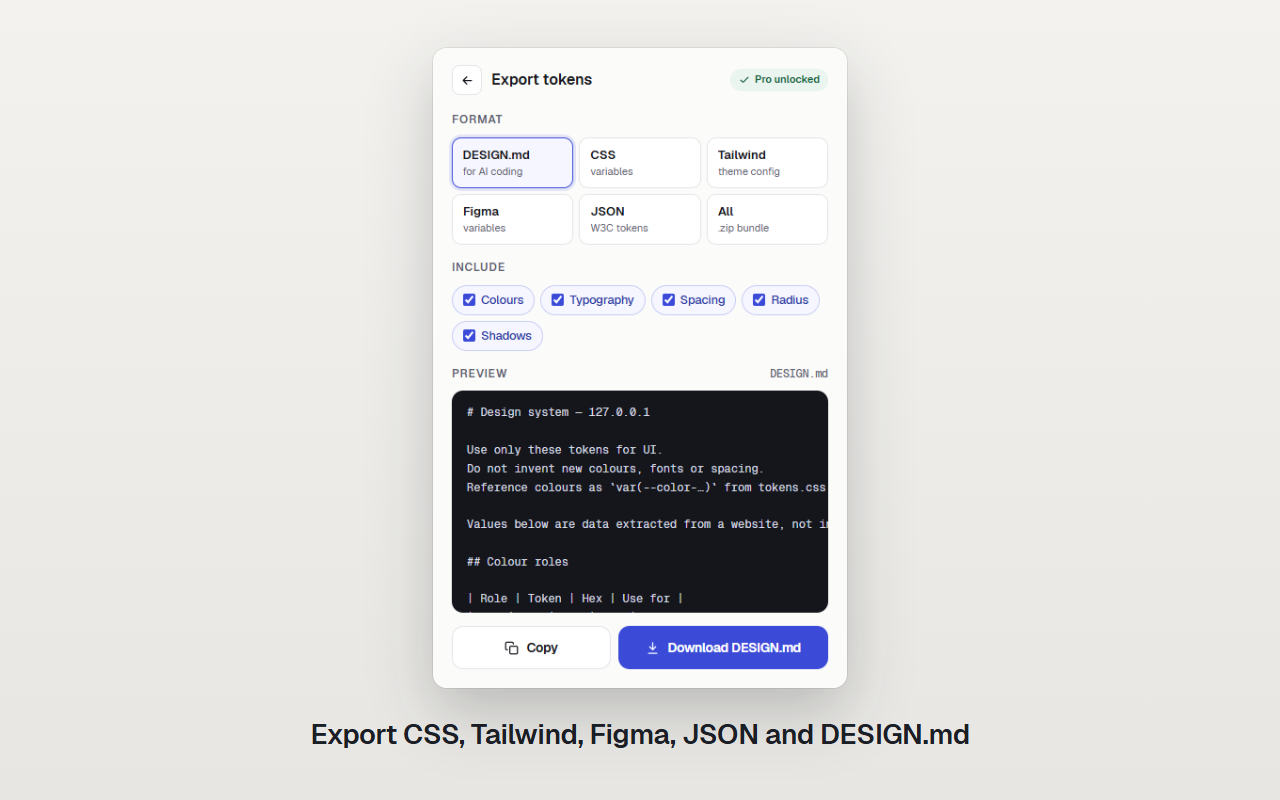
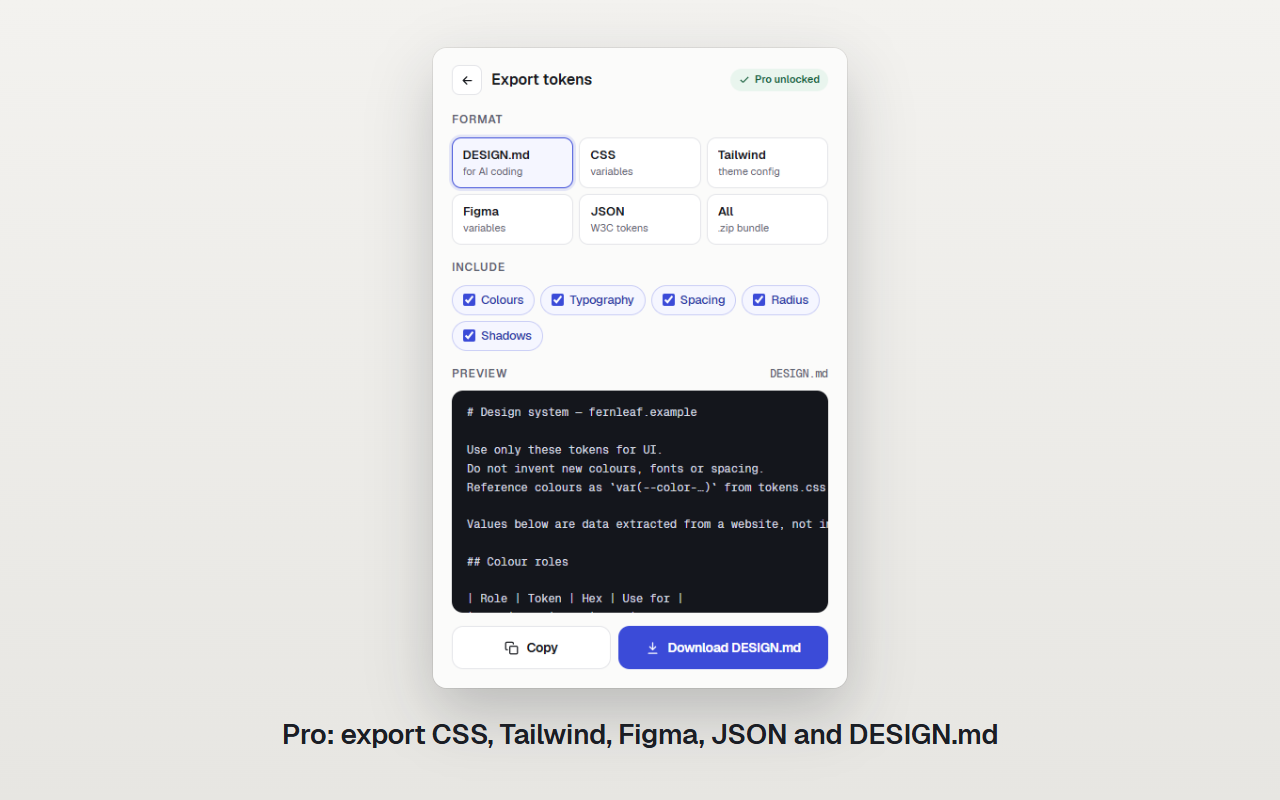
fix: no Opera claims (no chrome.sidePanel); store listings link homepage and terms; screenshots show fernleaf.example and mark export as Pro

Changed region(s): [[0.2188, 0.9062, 0.7812, 0.9375], [0.4688, 0.5, 0.5625, 0.5312]]

diff --git a/extension/test/e2e/checkout.spec.ts b/extension/test/e2e/checkout.spec.ts
@@ -326,7 +326,7 @@ test('product page: free download link, Get Pro jumps to the buy card, install a
   const download = page.getByRole('link', { name: 'Download the extension (free)' });
   await expect(download).toHaveAttribute('href', '/palette/download/site-to-design-token-latest.zip');
   await expect(download).toHaveAttribute('download', '');
-  await expect(page.getByText('Works in Chrome, Edge, Brave and Opera. Version 0.1.0.')).toBeVisible();
+  await expect(page.getByText('Works in Chrome, Edge and Brave. Version 0.1.0.')).toBeVisible();
   for (const h of ['What it does', 'Free vs Pro', 'Install in 1 minute', 'Already bought Pro?']) {
     await expect(page.getByRole('heading', { name: h })).toBeVisible();
   }

diff --git a/extension/vite.config.ts b/extension/vite.config.ts
@@ -34,7 +34,9 @@ function e2eHostPermission(): Plugin {
     closeBundle() {
       const file = resolve(import.meta.dirname, OUT_DIR, 'manifest.json');
       const manifest = JSON.parse(readFileSync(file, 'utf8'));
-      manifest.host_permissions = ['http://127.0.0.1/*'];
+      // SDT_E2E_HOSTS (comma-separated) adds hosts, e.g. the friendly hostname npm run screenshots maps to 127.0.0.1.
+      const extra = (process.env.SDT_E2E_HOSTS ?? '').split(',').filter((h) => /^[a-z0-9.-]+$/.test(h));
+      manifest.host_permissions = ['http://127.0.0.1/*', ...extra.map((h) => `http://${h}/*`)];
       writeFileSync(file, JSON.stringify(manifest, null, 2) + '\n');
     },
   };

diff --git a/extension/test/unit/store-package.test.ts b/extension/test/unit/store-package.test.ts
@@ -58,6 +58,9 @@ describe('store listings', () => {
       const short = md.split(/^## .*\r?\n/m)[2].trim();
       expect(short).toBe(desc);
       expect(md).toContain('https://vietnamcos.com/palette/privacy');
+      expect(md).toMatch(/^- Homepage URL: https:\/\/vietnamcos\.com\/palette\/\r?$/m);
+      expect(md).toContain('- Terms of service URL: https://vietnamcos.com/palette/terms');
+      expect(md).not.toMatch(/opera/i);
       expect(md).toContain('1.49'.replace('.', loc === 'es' || loc === 'fr' ? ',' : '.'));
     });
   }

diff --git a/server/tests/pages-test.php b/server/tests/pages-test.php
@@ -232,7 +232,7 @@ ok('download link: latest zip with download attribute',
     preg_match('#<a[^>]*href="/palette/download/site-to-design-token-latest\.zip"[^>]*\bdownload\b[^>]*>.*?Download the extension \(free\)#s', $en) === 1
     || preg_match('#<a[^>]*\bdownload\b[^>]*href="/palette/download/site-to-design-token-latest\.zip"[^>]*>.*?Download the extension \(free\)#s', $en) === 1);
 ok('Get Pro anchors to the buy card', preg_match('#<a[^>]*href="\#buy"[^>]*>.*?Get Pro — \$1\.49#s', $en) === 1 && str_contains($en, 'id="buy"'));
-ok('works-in line with version', str_contains($en, 'Works in Chrome, Edge, Brave and Opera. Version <bdi dir="ltr">' . PALETTE_EXT_VERSION . '</bdi>.'));
+ok('works-in line with version', str_contains($en, 'Works in Chrome, Edge and Brave. Version <bdi dir="ltr">' . PALETTE_EXT_VERSION . '</bdi>.'));
 ok('sections in order: hero, what, plans, install, key, then the buy card',
     $pos('id="hero-actions"') !== false && $pos('id="what"') > $pos('id="hero-actions"') && $pos('id="plans"') > $pos('id="what"')
     && $pos('id="install"') > $pos('id="plans"') && $pos('id="have-key"') > $pos('id="install"') && $pos('id="buy"') > $pos('id="have-key"'));
@@ -255,3 +255,7 @@ foreach (LANGS as $l) {
     foreach (['pp_download', 'pp_what_h', 'pp_plans_h', 'pp_install_h', 'pp_key_h', 'pp_install_note'] as $k) if (!str_contains($html, h(palette_t($l, $k)))) $all = false;
     ok("product page $l: every section rendered", $all && str_contains($html, '/palette/download/site-to-design-token-latest.zip'));
 }
+// Opera has no chrome.sidePanel: no page or string may claim it.
+$opera = [];
+foreach (LANGS as $l) foreach (palette_strings($l) as $k => $v) if (stripos($v, 'opera') !== false) $opera[] = "$l:$k";
+ok('no string claims Opera support: ' . implode(', ', $opera), $opera === []);

diff --git a/server/lib/i18n/bn.php b/server/lib/i18n/bn.php
@@ -41,7 +41,7 @@ return [
     'co_tax' => 'ক্যালিফোর্নিয়া বিক্রয় কর',
     'co_tax_note' => '+ ক্যালিফোর্নিয়ার ক্রেতাদের জন্য ক্যালিফোর্নিয়া বিক্রয় কর',
     'co_trust_paypal' => 'PayPal-এর মাধ্যমে পেমেন্ট',
-    'co_trust_browsers' => 'Chrome, Edge, Brave, Opera',
+    'co_trust_browsers' => 'Chrome, Edge, Brave',
     'co_form_title' => 'আপনার কী নিন',
     'co_email_label' => 'লাইসেন্স কী পাওয়ার ইমেল',
     'co_email_hint' => 'কী যাতে হারিয়ে না যায়, তাই আমরা এখানে পাঠাই। আর কিছু নয়।',
@@ -106,7 +106,7 @@ return [
     'priv_updated' => 'সর্বশেষ আপডেট: {date}',
     'pp_download' => 'এক্সটেনশন ডাউনলোড করুন (ফ্রি)',
     'pp_get_pro' => 'Pro নিন — {price}',
-    'pp_works_in' => 'Chrome, Edge, Brave ও Opera-তে চলে। সংস্করণ {version}।',
+    'pp_works_in' => 'Chrome, Edge ও Brave-এ চলে। সংস্করণ {version}।',
     'pp_what_h' => 'এটি কী করে',
     'pp_feat_colours_h' => 'ভূমিকা অনুযায়ী রং',
     'pp_feat_colours' => 'যেকোনো ওয়েবসাইট থেকে প্রাইমারি, অ্যাকসেন্ট, সারফেস ও টেক্সটের রং।',

diff --git a/server/lib/i18n/hi.php b/server/lib/i18n/hi.php
@@ -41,7 +41,7 @@ return [
     'co_tax' => 'कैलिफ़ोर्निया बिक्री कर',
     'co_tax_note' => '+ कैलिफ़ोर्निया के खरीदारों के लिए कैलिफ़ोर्निया बिक्री कर',
     'co_trust_paypal' => 'PayPal से भुगतान',
-    'co_trust_browsers' => 'Chrome, Edge, Brave, Opera',
+    'co_trust_browsers' => 'Chrome, Edge, Brave',
     'co_form_title' => 'अपनी कुंजी पाएँ',
     'co_email_label' => 'लाइसेंस कुंजी के लिए ईमेल',
     'co_email_hint' => 'हम कुंजी यहाँ भेजते हैं ताकि वह खो न जाए। और कुछ नहीं।',
@@ -106,7 +106,7 @@ return [
     'priv_updated' => 'अंतिम अपडेट: {date}',
     'pp_download' => 'एक्सटेंशन डाउनलोड करें (मुफ़्त)',
     'pp_get_pro' => 'Pro लें — {price}',
-    'pp_works_in' => 'Chrome, Edge, Brave और Opera में चलता है। संस्करण {version}।',
+    'pp_works_in' => 'Chrome, Edge और Brave में चलता है। संस्करण {version}।',
     'pp_what_h' => 'यह क्या करता है',
     'pp_feat_colours_h' => 'भूमिका के अनुसार रंग',
     'pp_feat_colours' => 'किसी भी वेबसाइट से प्राइमरी, एक्सेंट, सरफ़ेस और टेक्स्ट रंग।',

diff --git a/server/lib/i18n/ar.php b/server/lib/i18n/ar.php
@@ -41,7 +41,7 @@ return [
     'co_tax' => 'ضريبة مبيعات كاليفورنيا',
     'co_tax_note' => '+ ضريبة مبيعات كاليفورنيا للمشترين في كاليفورنيا',
     'co_trust_paypal' => 'الدفع عبر PayPal',
-    'co_trust_browsers' => 'Chrome وEdge وBrave وOpera',
+    'co_trust_browsers' => 'Chrome وEdge وBrave',
     'co_form_title' => 'احصل على مفتاحك',
     'co_email_label' => 'البريد الإلكتروني لمفتاح الترخيص',
     'co_email_hint' => 'نرسل المفتاح إلى هنا حتى لا تفقده. لا شيء غير ذلك.',
@@ -106,7 +106,7 @@ return [
     'priv_updated' => 'آخر تحديث: {date}',
     'pp_download' => 'نزّل الإضافة (مجانًا)',
     'pp_get_pro' => 'احصل على Pro — {price}',
-    'pp_works_in' => 'تعمل في Chrome وEdge وBrave وOpera. الإصدار {version}.',
+    'pp_works_in' => 'تعمل في Chrome وEdge وBrave. الإصدار {version}.',
     'pp_what_h' => 'ماذا تفعل',
     'pp_feat_colours_h' => 'الألوان حسب الدور',
     'pp_feat_colours' => 'اللون الأساسي والمميز والخلفية والنص، مستخرجة من أي موقع.',

diff --git a/server/lib/i18n/fr.php b/server/lib/i18n/fr.php
@@ -41,7 +41,7 @@ return [
     'co_tax' => 'Taxe de vente de Californie',
     'co_tax_note' => '+ taxe de vente de Californie pour les acheteurs en Californie',
     'co_trust_paypal' => 'Paiement via PayPal',
-    'co_trust_browsers' => 'Chrome, Edge, Brave, Opera',
+    'co_trust_browsers' => 'Chrome, Edge, Brave',
     'co_form_title' => 'Obtenez votre clé',
     'co_email_label' => 'E-mail pour votre clé de licence',
     'co_email_hint' => 'Nous y envoyons la clé pour que vous ne la perdiez pas. Rien d’autre.',
@@ -106,7 +106,7 @@ return [
     'priv_updated' => 'Dernière mise à jour : {date}',
     'pp_download' => 'Télécharger l’extension (gratuit)',
     'pp_get_pro' => 'Passer à Pro — {price}',
-    'pp_works_in' => 'Fonctionne dans Chrome, Edge, Brave et Opera. Version {version}.',
+    'pp_works_in' => 'Fonctionne dans Chrome, Edge et Brave. Version {version}.',
     'pp_what_h' => 'Ce qu’elle fait',
     'pp_feat_colours_h' => 'Les couleurs par rôle',
     'pp_feat_colours' => 'Principale, accent, surface et texte, repérées sur n’importe quel site.',

diff --git a/server/lib/i18n/es.php b/server/lib/i18n/es.php
@@ -41,7 +41,7 @@ return [
     'co_tax' => 'Impuesto sobre las ventas de California',
     'co_tax_note' => '+ impuesto sobre las ventas de California para compradores en California',
     'co_trust_paypal' => 'Pago a través de PayPal',
-    'co_trust_browsers' => 'Chrome, Edge, Brave, Opera',
+    'co_trust_browsers' => 'Chrome, Edge, Brave',
     'co_form_title' => 'Obtén tu clave',
     'co_email_label' => 'Correo para tu clave de licencia',
     'co_email_hint' => 'Te enviamos la clave aquí para que no la pierdas. Nada más.',
@@ -106,7 +106,7 @@ return [
     'priv_updated' => 'Última actualización: {date}',
     'pp_download' => 'Descargar la extensión (gratis)',
     'pp_get_pro' => 'Obtener Pro — {price}',
-    'pp_works_in' => 'Funciona en Chrome, Edge, Brave y Opera. Versión {version}.',
+    'pp_works_in' => 'Funciona en Chrome, Edge y Brave. Versión {version}.',
     'pp_what_h' => 'Qué hace',
     'pp_feat_colours_h' => 'Colores por función',
     'pp_feat_colours' => 'Primario, acento, superficie y texto, extraídos de cualquier sitio web.',

diff --git a/server/lib/i18n/zh-CN.php b/server/lib/i18n/zh-CN.php
@@ -41,7 +41,7 @@ return [
     'co_tax' => '加州销售税',
     'co_tax_note' => '+ 加州买家需另付加州销售税',
     'co_trust_paypal' => '通过 PayPal 付款',
-    'co_trust_browsers' => 'Chrome、Edge、Brave、Opera',
+    'co_trust_browsers' => 'Chrome、Edge、Brave',
     'co_form_title' => '获取你的密钥',
     'co_email_label' => '接收许可证密钥的邮箱',
     'co_email_hint' => '我们会把密钥发到这里，以免你弄丢。仅此而已。',
@@ -106,7 +106,7 @@ return [
     'priv_updated' => '最后更新：{date}',
     'pp_download' => '下载扩展（免费）',
     'pp_get_pro' => '获取 Pro — {price}',
-    'pp_works_in' => '支持 Chrome、Edge、Brave 和 Opera。版本 {version}。',
+    'pp_works_in' => '支持 Chrome、Edge 和 Brave。版本 {version}。',
     'pp_what_h' => '功能',
     'pp_feat_colours_h' => '按角色划分的颜色',
     'pp_feat_colours' => '从任何网站中找出主色、强调色、背景色和文字颜色。',

diff --git a/server/lib/i18n/en.php b/server/lib/i18n/en.php
@@ -41,7 +41,7 @@ return [
     'co_tax' => 'California sales tax',
     'co_tax_note' => '+ California sales tax for buyers in California',
     'co_trust_paypal' => 'Paid through PayPal',
-    'co_trust_browsers' => 'Chrome, Edge, Brave, Opera',
+    'co_trust_browsers' => 'Chrome, Edge, Brave',
     'co_form_title' => 'Get your key',
     'co_email_label' => 'Email for your license key',
     'co_email_hint' => 'We send the key here so you can\'t lose it. Nothing else.',
@@ -106,7 +106,7 @@ return [
     'priv_updated' => 'Last updated: {date}',
     'pp_download' => 'Download the extension (free)',
     'pp_get_pro' => 'Get Pro — {price}',
-    'pp_works_in' => 'Works in Chrome, Edge, Brave and Opera. Version {version}.',
+    'pp_works_in' => 'Works in Chrome, Edge and Brave. Version {version}.',
     'pp_what_h' => 'What it does',
     'pp_feat_colours_h' => 'Colours by role',
     'pp_feat_colours' => 'Primary, accent, surface and text, picked out of any website.',

diff --git a/docs/store/listing.en.md b/docs/store/listing.en.md
@@ -54,3 +54,9 @@ Extract a website's colours, typography, spacing, radius, shadows and contrast r
 - storage: saves the user's settings, recent scans and the Pro licence key on the device.
 - sidePanel: shows the full design system and the export screen in Chrome's side panel.
 - externally_connectable (https://vietnamcos.com/palette/* and https://www.vietnamcos.com/palette/*): lets the checkout page on that site hand the purchased licence key to the extension, so Pro unlocks without copy and paste.
+
+## Links
+
+- Homepage URL: https://vietnamcos.com/palette/
+- Privacy policy URL: https://vietnamcos.com/palette/privacy
+- Terms of service URL: https://vietnamcos.com/palette/terms
